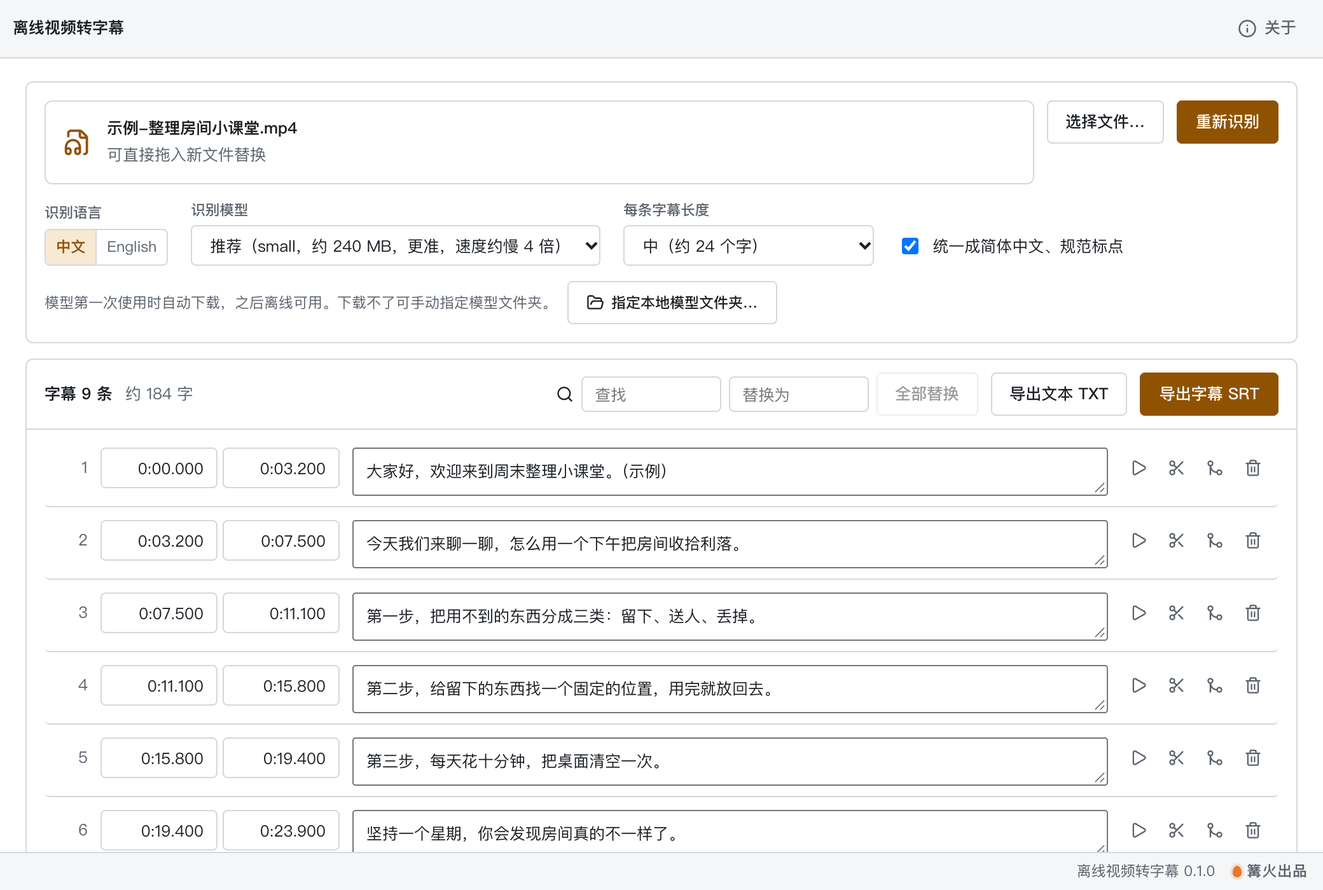
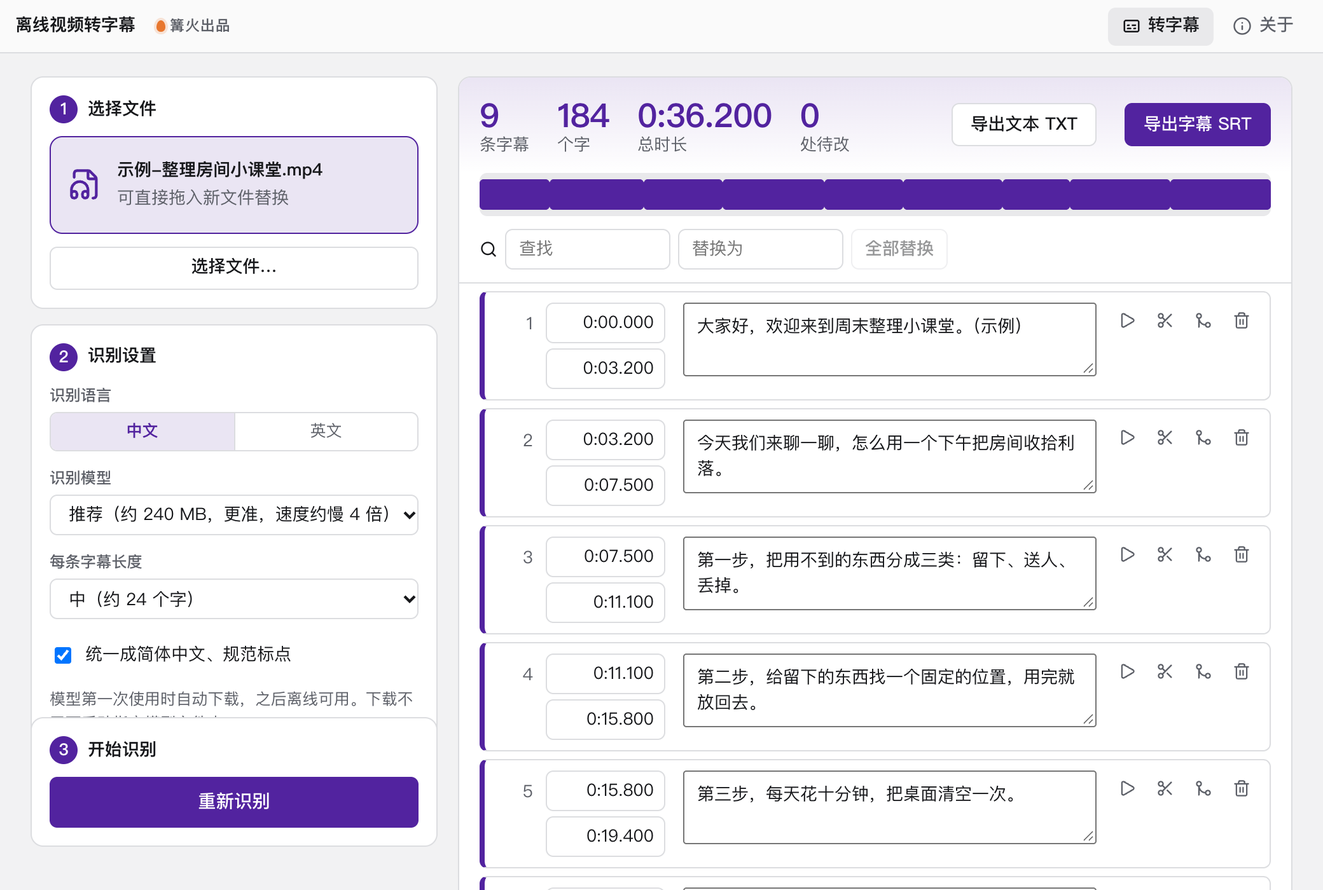
0.2.0：左设置右工作区，字幕时间轴，新空状态，全中文

Changed region(s): [[0.0, 0.0, 1.0, 1.0], [0.875, 0.3379, 0.9375, 0.3686]]

diff --git a/src/tool/Main.tsx b/src/tool/Main.tsx
@@ -16,6 +16,7 @@ const errText = (e: unknown) => (e instanceof Error ? e.message : String(e));
 const baseName = (p: string) => p.split(/[\\/]/).pop() ?? p;
 const stem = (p: string) => baseName(p).replace(/\.[^.]+$/, '');
 const isPreview = typeof location !== 'undefined' && location.pathname.endsWith('preview.html');
+const previewEmpty = isPreview && new URLSearchParams(location.search).get('state') === 'empty';
 
 interface Prefs { model: string; language: 'chinese' | 'english'; simplified: boolean; maxWidth: number; localDir: string }
 const DEFAULT_PREFS: Prefs = { model: 'small', language: 'chinese', simplified: true, maxWidth: 24, localDir: '' };
@@ -36,8 +37,8 @@ async function savePrefs(p: Prefs) {
 
 export function Main({ ctx }: { ctx?: Ctx }) {
   const [prefs, setPrefs] = useState<Prefs>(DEFAULT_PREFS);
-  const [file, setFile] = useState<string>(isPreview ? `/示例/${DEMO_NAME}` : '');
-  const [segs, setSegs] = useState<Segment[]>(isPreview ? DEMO_SEGMENTS : []);
+  const [file, setFile] = useState<string>(isPreview && !previewEmpty ? `/示例/${DEMO_NAME}` : '');
+  const [segs, setSegs] = useState<Segment[]>(isPreview && !previewEmpty ? DEMO_SEGMENTS : []);
   const [stage, setStage] = useState<Stage | null>(null);
   const [msg, setMsg] = useState<{ kind: 'ok' | 'err'; text: string } | null>(null);
   const [dirty, setDirty] = useState(false);
@@ -50,7 +51,7 @@ export function Main({ ctx }: { ctx?: Ctx }) {
 
   const choose = useCallback((p: string) => {
     if (busy) return;
-    if (!EXTS.includes((p.split('.').pop() ?? '').toLowerCase())) { setMsg({ kind: 'err', text: `不支持这种文件：${baseName(p)}。支持常见视频（mp4、mov、mkv 等）和音频（mp3、wav、m4a 等）` }); return; }
+    if (!EXTS.includes((p.split('.').pop() ?? '').toLowerCase())) { setMsg({ kind: 'err', text: `不支持这种文件：${baseName(p)}。支持常见视频（MP4、MOV 等）和音频（MP3、WAV、M4A 等）` }); return; }
     if (segs.length && dirty && !window.confirm('当前字幕有修改还没导出，换文件会丢掉。继续吗？')) return;
     setFile(p); setSegs([]); setDirty(false); setMsg(null);
   }, [busy, segs.length, dirty]);
@@ -95,48 +96,84 @@ export function Main({ ctx }: { ctx?: Ctx }) {
     }
   }
 
+  const hasText = segs.length > 0;
   return (
     <div className="os-root">
-      <section className="k-panel os-source">
-        <div className="os-file">
-          <span className={`os-drop${hover ? ' hover' : ''}${file ? ' has' : ''}`}>
-            <FileAudio size={22} aria-hidden />
+      <aside className="os-side" aria-label="识别设置">
+        <section className="os-step">
+          <h3><b>1</b>选择文件</h3>
+          <div className={`os-drop${hover ? ' hover' : ''}${file ? ' has' : ''}`}>
+            <FileAudio size={26} aria-hidden />
             <span className="os-file-text">
-              {file ? <><b className="k-ellipsis" title={file}>{baseName(file)}</b><span className="k-muted">可直接拖入新文件替换</span></> : <><b>把视频或音频拖到这里</b><span className="k-muted">mp4、mov、mkv、mp3、wav、m4a 等，文件不会上传</span></>}
+              {file ? <><b className="k-ellipsis" title={file}>{baseName(file)}</b><span className="k-muted">可直接拖入新文件替换</span></> : <><b>把视频或音频拖到这里</b><span className="k-muted">MP4、MOV、MP3、WAV、M4A 等，文件不会上传</span></>}
             </span>
-          </span>
+          </div>
           <button className="k-btn" disabled={busy} onClick={async () => { const p = (await pickFiles(EXTS, '视频或音频'))[0]; if (p) choose(p); }}>选择文件…</button>
-          {busy ? <button className="k-btn" onClick={() => abort.current?.abort()}>取消</button> : <button className="k-btn primary" disabled={!file || !ctx} onClick={start}>{segs.length ? '重新识别' : '开始识别'}</button>}
-        </div>
-        <div className="os-opts">
-          <div className="os-opt"><span className="k-label">识别语言</span>
-            <span className="k-seg" role="group" aria-label="识别语言">
-              {([['chinese', '中文'], ['english', 'English']] as const).map(([k, l]) => <button key={k} className={prefs.language === k ? 'on' : ''} aria-pressed={prefs.language === k} disabled={busy} onClick={() => setPref('language', k)}>{l}</button>)}
-            </span>
+        </section>
+        <section className="os-step">
+          <h3><b>2</b>识别设置</h3>
+          <div className="os-opts">
+            <div className="os-opt"><span className="k-label">识别语言</span>
+              <span className="k-seg" role="group" aria-label="识别语言">
+                {([['chinese', '中文'], ['english', '英文']] as const).map(([k, l]) => <button key={k} className={prefs.language === k ? 'on' : ''} aria-pressed={prefs.language === k} disabled={busy} onClick={() => setPref('language', k)}>{l}</button>)}
+              </span>
+            </div>
+            <div className="os-opt"><label className="k-label" htmlFor="os-model">识别模型</label>
+              <select id="os-model" className="k-input" value={prefs.model} disabled={busy} onChange={(e) => setPref('model', e.target.value)}>{MODELS.map((m) => <option key={m.id} value={m.id}>{m.label}</option>)}</select>
+            </div>
+            <div className="os-opt"><label className="k-label" htmlFor="os-width">每条字幕长度</label>
+              <select id="os-width" className="k-input" value={prefs.maxWidth} disabled={busy} onChange={(e) => setPref('maxWidth', Number(e.target.value))}>
+                <option value={16}>短（约 16 个字，适合竖屏）</option><option value={24}>中（约 24 个字）</option><option value={32}>长（约 32 个字）</option>
+              </select>
+            </div>
+            {prefs.language === 'chinese' && <label className="os-opt os-check"><input type="checkbox" checked={prefs.simplified} disabled={busy} onChange={(e) => setPref('simplified', e.target.checked)} /><span>统一成简体中文、规范标点</span></label>}
           </div>
-          <div className="os-opt"><label className="k-label" htmlFor="os-model">识别模型</label>
-            <select id="os-model" className="k-input" value={prefs.model} disabled={busy} onChange={(e) => setPref('model', e.target.value)}>{MODELS.map((m) => <option key={m.id} value={m.id}>{m.label}</option>)}</select>
+          <div className="os-model-row">
+            <span className="k-muted">{prefs.localDir ? <>使用本地模型文件夹：<span title={prefs.localDir}>{baseName(prefs.localDir)}</span></> : '模型第一次使用时自动下载，之后离线可用。下载不了可手动指定模型文件夹。'}</span>
+            <button className="k-btn os-sm" disabled={busy} onClick={async () => { const d = await pickFolder(); if (d) setPref('localDir', d); }}><FolderOpen size={14} aria-hidden />指定本地模型文件夹…</button>
+            {prefs.localDir && <button className="k-btn os-sm" disabled={busy} onClick={() => setPref('localDir', '')}>改回自动下载</button>}
           </div>
-          <div className="os-opt"><label className="k-label" htmlFor="os-width">每条字幕长度</label>
-            <select id="os-width" className="k-input" value={prefs.maxWidth} disabled={busy} onChange={(e) => setPref('maxWidth', Number(e.target.value))}>
-              <option value={16}>短（约 16 个字，适合竖屏）</option><option value={24}>中（约 24 个字）</option><option value={32}>长（约 32 个字）</option>
-            </select>
-          </div>
-          {prefs.language === 'chinese' && <label className="os-opt os-check"><input type="checkbox" checked={prefs.simplified} disabled={busy} onChange={(e) => setPref('simplified', e.target.checked)} /><span>统一成简体中文、规范标点</span></label>}
-        </div>
-        <div className="os-model-row">
-          <span className="k-muted">{prefs.localDir ? <>使用本地模型文件夹：<span title={prefs.localDir}>{baseName(prefs.localDir)}</span></> : '模型第一次使用时自动下载，之后离线可用。下载不了可手动指定模型文件夹。'}</span>
-          <button className="k-btn os-sm" disabled={busy} onClick={async () => { const d = await pickFolder(); if (d) setPref('localDir', d); }}><FolderOpen size={14} aria-hidden />指定本地模型文件夹…</button>
-          {prefs.localDir && <button className="k-btn os-sm" disabled={busy} onClick={() => setPref('localDir', '')}>改回自动下载</button>}
-        </div>
-        {stage && <div className="os-progress" role="status"><ProgressBar ratio={stage.ratio} label={stage.text} /><span className="k-muted">{stage.text}</span></div>}
-        {msg && <div className={`os-msg ${msg.kind}`} role={msg.kind === 'err' ? 'alert' : 'status'}>{msg.text}</div>}
-      </section>
+        </section>
+        <section className="os-step">
+          <h3><b>3</b>开始识别</h3>
+          {busy ? <button className="k-btn os-go" onClick={() => abort.current?.abort()}>取消</button> : <button className="k-btn primary os-go" disabled={!file || !ctx} onClick={start}>{hasText ? '重新识别' : '开始识别'}</button>}
+          {stage && <div className="os-progress" role="status"><ProgressBar ratio={stage.ratio} label={stage.text} /><span className="k-muted">{stage.text}</span></div>}
+          {msg && <div className={`os-msg ${msg.kind}`} role={msg.kind === 'err' ? 'alert' : 'status'}>{msg.text}</div>}
+        </section>
+      </aside>
 
-      {segs.length > 0 && (
-        <Editor segs={segs} issues={issues.length} bad={bad} file={file} audioRef={audio} edit={edit} patch={patch} play={play} onExport={exportAs} />
-      )}
-      {!segs.length && !busy && <div className="os-empty k-muted">选好文件，点「开始识别」。识别在本机完成，不联网（仅首次需要下载模型），不需要显卡。</div>}
+      <section className="os-stage">
+        {hasText ? (
+          <Editor segs={segs} issues={issues.length} bad={bad} file={file} audioRef={audio} edit={edit} patch={patch} play={play} onExport={exportAs} />
+        ) : <Intro busy={busy} />}
+      </section>
+    </div>
+  );
+}
+
+/** 还没有字幕时的示意：一段声音变成带时间的文字 */
+function Intro({ busy }: { busy: boolean }) {
+  const bars = [10, 22, 34, 18, 40, 28, 14, 36, 44, 24, 12, 30, 38, 16, 26, 42, 20, 32, 12, 24];
+  return (
+    <div className="os-intro">
+      <svg className="os-art" viewBox="0 0 560 170" role="img" aria-label="一段声音识别成带时间的字幕">
+        <g transform="translate(0 20)">
+          {bars.map((h, i) => <rect key={i} x={i * 11} y={65 - h} width="6" height={h * 2} rx="3" className="w-bar" />)}
+          <text x="108" y="132" textAnchor="middle" className="w-t">视频或音频</text>
+        </g>
+        <g className="w-arrow"><path d="M240 85h56" /><path d="M286 75l12 10-12 10" /></g>
+        {[['00:00.0', '大家好，欢迎来到小课堂'], ['00:03.2', '今天聊聊怎么整理房间'], ['00:07.5', '第一步，先分三类']].map(([t, x], i) => (
+          <g key={t} transform={`translate(330 ${14 + i * 48})`}>
+            <rect width="230" height="38" rx="8" className="w-row" />
+            <rect x="8" y="8" width="56" height="22" rx="5" className="w-time" />
+            <text x="36" y="24" textAnchor="middle" className="w-tt">{t}</text>
+            <text x="74" y="24" className="w-line">{x}</text>
+          </g>
+        ))}
+      </svg>
+      <h2>{busy ? '正在识别，请稍等' : '一段声音，变成一条条带时间的字幕'}</h2>
+      <p>在左边选好文件和语言，点「开始识别」。识别在本机完成，不联网（仅首次需要下载模型），不需要显卡。识别完可以逐条改文字和时间，再导出 SRT 或 TXT。</p>
+      <ul className="os-points"><li>文件不上传</li><li>逐条校对</li><li>查找替换</li><li>导出 SRT、TXT</li></ul>
     </div>
   );
 }
@@ -151,13 +188,26 @@ function Editor(props: {
   const [note, setNote] = useState('');
   const caret = useRef<Record<number, number>>({});
   const words = useMemo(() => segs.reduce((n, s) => n + s.text.replace(/\s/g, '').length, 0), [segs]);
+  const span = Math.max(1, ...segs.map((s) => s.end));
 
   return (
     <section className="k-panel os-editor">
-      <div className="os-bar">
-        <b>字幕 <span className="k-num">{segs.length}</span> 条</b>
-        <span className="k-muted k-num">约 {words} 字</span>
+      <div className="os-stats">
+        <div><b className="k-num">{segs.length}</b><span>条字幕</span></div>
+        <div><b className="k-num">{words}</b><span>个字</span></div>
+        <div><b className="k-num">{shortTime(span)}</b><span>总时长</span></div>
+        <div className={props.issues ? 'warn' : ''}><b className="k-num">{props.issues}</b><span>处待改</span></div>
         <span className="os-sp" />
+        <button className="k-btn" onClick={() => props.onExport('txt')}>导出文本 TXT</button>
+        <button className="k-btn primary" onClick={() => props.onExport('srt')}>导出字幕 SRT</button>
+      </div>
+      <div className="os-tl" role="group" aria-label="字幕时间轴，点一条跳到对应位置">
+        {segs.map((s, i) => (
+          <button key={i} className={`os-cue${bad.has(i) ? ' bad' : ''}`} style={{ left: `${(s.start / span) * 100}%`, width: `${Math.max(0.4, ((s.end - s.start) / span) * 100)}%` }}
+            title={`第 ${i + 1} 条 ${shortTime(s.start)}`} aria-label={`跳到第 ${i + 1} 条`} onClick={() => document.getElementById(`os-row-${i}`)?.scrollIntoView({ block: 'center', behavior: 'smooth' })} />
+        ))}
+      </div>
+      <div className="os-bar">
         <span className="os-find">
           <Search size={14} aria-hidden />
           <input className="k-input" aria-label="查找" placeholder="查找" value={find} onChange={(e) => { setFind(e.target.value); setNote(''); }} />
@@ -165,20 +215,18 @@ function Editor(props: {
           <button className="k-btn os-sm" disabled={!find} onClick={() => { const r = replaceAll(segs, find, to); if (r.count) edit(r.segs); setNote(r.count ? `已替换 ${r.count} 处` : '没有找到'); }}>全部替换</button>
           {note && <span className="k-muted" role="status">{note}</span>}
         </span>
-        <button className="k-btn" onClick={() => props.onExport('txt')}>导出文本 TXT</button>
-        <button className="k-btn primary" onClick={() => props.onExport('srt')}>导出字幕 SRT</button>
       </div>
       {props.issues > 0 && <div className="os-msg err" role="alert"><AlertTriangle size={14} aria-hidden /> 有 {props.issues} 处时间或文字问题（已在下面标红），导出前建议改一下。</div>}
       {!isPreview && <audio ref={props.audioRef} className="os-audio" controls preload="none" src={isPreview ? undefined : fileSrc(props.file)} aria-label="原声试听" />}
       <ol className="os-list">
         {segs.map((s, i) => (
-          <li key={i} className={`os-row${bad.has(i) ? ' bad' : ''}`}>
+          <li key={i} id={`os-row-${i}`} className={`os-row${bad.has(i) ? ' bad' : ''}`}>
             <span className="os-idx k-num">{i + 1}</span>
             <div className="os-times">
               <TimeInput label={`第 ${i + 1} 条开始时间`} value={s.start} onCommit={(v) => patch(i, { start: v })} />
               <TimeInput label={`第 ${i + 1} 条结束时间`} value={s.end} onCommit={(v) => patch(i, { end: v })} />
             </div>
-            <textarea className="k-textarea os-text" rows={Math.max(1, Math.ceil(s.text.length / 28))} aria-label={`第 ${i + 1} 条字幕文字`} value={s.text}
+            <textarea className="k-textarea os-text" rows={Math.max(1, Math.ceil(s.text.length / 17))} aria-label={`第 ${i + 1} 条字幕文字`} value={s.text}
               onChange={(e) => patch(i, { text: e.target.value })} onSelect={(e) => { caret.current[i] = e.currentTarget.selectionStart; }} />
             <div className="os-acts">
               <button className="k-icon-btn" title="从这里试听" aria-label={`试听第 ${i + 1} 条`} onClick={() => play(s.start)}><Play size={14} /></button>

diff --git a/src/tool/tool.css b/src/tool/tool.css
@@ -1,39 +1,66 @@
-/* 离线视频转字幕：只用 kit.css 的变量，类名统一以 os- 开头。 */
-.os-root { flex: 1; min-height: 0; display: flex; flex-direction: column; gap: 12px; }
-.os-source { padding: 14px; display: flex; flex-direction: column; gap: 12px; }
-.os-file { display: flex; gap: 10px; align-items: stretch; flex-wrap: wrap; }
-.os-drop { flex: 1 1 280px; min-width: 0; display: flex; align-items: center; gap: 12px; padding: 12px 14px; border: 1.5px dashed var(--line-strong); border-radius: var(--radius-lg); color: var(--muted); transition: border-color .15s var(--ease), background .15s var(--ease); }
-.os-drop.has { border-style: solid; border-color: var(--line); color: var(--primary); }
+/* 离线视频转字幕：左边三步设置，右边字幕工作区。只用 kit.css 的变量，类名统一以 os- 开头。 */
+.os-root { flex: 1; min-height: 0; display: grid; grid-template-columns: 320px minmax(0, 1fr); gap: 16px; align-items: start; }
+.os-side { display: flex; flex-direction: column; gap: 12px; position: sticky; top: 0; max-height: calc(100vh - 92px); overflow-y: auto; padding-bottom: 2px; }
+.os-step:last-child { position: sticky; bottom: 0; }
+.os-step { display: flex; flex-direction: column; gap: 10px; padding: 14px; background: var(--surface); border: 1px solid var(--line); border-radius: var(--radius-lg); }
+.os-step h3 { margin: 0; display: flex; align-items: center; gap: 8px; font-size: 1em; }
+.os-step h3 b { width: 22px; height: 22px; border-radius: 50%; display: grid; place-items: center; background: var(--primary); color: var(--on-primary); font-size: 13px; }
+.os-drop { display: flex; align-items: center; gap: 12px; padding: 16px 14px; border: 1.5px dashed var(--line-strong); border-radius: var(--radius-lg); color: var(--muted); min-width: 0; transition: border-color .2s var(--ease), background .2s var(--ease); }
+.os-drop.has { border-style: solid; border-color: var(--primary); background: var(--primary-soft); color: var(--primary); }
 .os-drop.hover { border-color: var(--primary); background: var(--primary-soft); }
 .os-file-text { display: flex; flex-direction: column; gap: 2px; min-width: 0; color: var(--ink); }
 .os-file-text b { font-weight: 600; }
-.os-opts { display: flex; flex-wrap: wrap; gap: 12px 18px; align-items: flex-end; }
+.os-opts { display: flex; flex-direction: column; gap: 12px; }
 .os-opt { display: flex; flex-direction: column; gap: 4px; min-width: 0; }
-.os-opt select.k-input { min-width: 190px; }
-.os-check { flex-direction: row; align-items: center; gap: 8px; padding-bottom: 6px; cursor: pointer; }
+.os-opt select.k-input { width: 100%; }
+.os-check { flex-direction: row; align-items: center; gap: 8px; min-height: 32px; cursor: pointer; }
 .os-model-row { display: flex; align-items: center; gap: 8px; flex-wrap: wrap; font-size: .92em; }
-.os-sm { height: 28px; padding: 0 10px; display: inline-flex; align-items: center; gap: 4px; }
-.os-go { display: flex; align-items: center; gap: 12px; flex-wrap: wrap; }
-.os-progress {  display: flex; flex-direction: column; gap: 4px; min-width: 0; }
+.os-sm { height: 32px; padding: 0 10px; display: inline-flex; align-items: center; gap: 4px; }
+.os-go { width: 100%; height: 40px; justify-content: center; font-size: 1.05em; }
+.os-progress { display: flex; flex-direction: column; gap: 4px; min-width: 0; }
 .os-msg { padding: 8px 12px; border-radius: var(--radius); font-size: .95em; display: flex; align-items: center; gap: 6px; }
 .os-msg.ok { background: var(--ok-soft); color: var(--ok); }
 .os-msg.err { background: var(--err-soft); color: var(--err); }
-.os-empty { padding: 28px 12px; text-align: center; }
 
-.os-editor { flex: 1; min-height: 0; display: flex; flex-direction: column; overflow: hidden; }
-.os-bar { display: flex; align-items: center; gap: 10px; flex-wrap: wrap; padding: 10px 14px; border-bottom: 1px solid var(--line); }
+.os-stage { min-width: 0; min-height: 0; display: flex; flex-direction: column; }
+.os-intro { display: grid; justify-items: center; gap: 10px; padding: 40px 24px; text-align: center; background: var(--surface); border: 1px solid var(--line); border-radius: var(--radius-lg); }
+.os-intro h2 { margin: 6px 0 0; font-size: 21px; font-weight: 700; }
+.os-intro p { margin: 0; max-width: 460px; color: var(--muted); line-height: 1.7; font-size: 14px; }
+.os-art { width: min(100%, 560px); height: auto; }
+.os-art .w-bar { fill: var(--primary); opacity: .75; }
+.os-art .w-arrow path { fill: none; stroke: var(--muted); stroke-width: 3; stroke-linecap: round; stroke-linejoin: round; }
+.os-art .w-row { fill: var(--chip); }
+.os-art .w-time { fill: var(--primary); }
+.os-art .w-tt { fill: var(--bg); font-size: 12px; font-family: var(--font); }
+.os-art .w-line { fill: var(--ink); font-size: 13px; font-family: var(--font); }
+.os-art .w-t { fill: var(--muted); font-size: 13px; font-family: var(--font); }
+.os-points { display: flex; flex-wrap: wrap; justify-content: center; gap: 8px; margin: 4px 0 0; padding: 0; list-style: none; }
+.os-points li { min-height: 32px; display: flex; align-items: center; padding: 0 14px; border-radius: var(--radius-pill); background: var(--primary-soft); color: var(--ink); font-size: 13px; }
+
+.os-editor { flex: 1; min-height: 0; display: flex; flex-direction: column; overflow: hidden; background: var(--surface); border: 1px solid var(--line); border-radius: var(--radius-lg); }
+.os-stats { display: flex; align-items: center; gap: 22px; flex-wrap: wrap; padding: 14px 16px; background: linear-gradient(180deg, var(--primary-soft), transparent); }
+.os-stats > div { display: flex; flex-direction: column; line-height: 1.2; }
+.os-stats b { font-size: 26px; font-weight: 700; color: var(--primary); letter-spacing: -.01em; }
+.os-stats span { font-size: 13px; color: var(--muted); }
+.os-stats .warn b { color: var(--err); }
+.os-tl { position: relative; height: 34px; margin: 0 16px; border-radius: var(--radius); background: var(--chip); overflow: hidden; }
+.os-cue { position: absolute; top: 5px; bottom: 5px; min-width: 3px; padding: 0; border: 0; border-radius: 3px; background: var(--primary); cursor: pointer; box-shadow: 1px 0 0 var(--chip); transition: opacity .15s var(--ease); }
+.os-cue:hover { opacity: .65; }
+.os-cue.bad { background: var(--err); }
+.os-bar { display: flex; align-items: center; gap: 10px; flex-wrap: wrap; padding: 10px 16px; border-bottom: 1px solid var(--line); }
 .os-find { display: inline-flex; align-items: center; gap: 6px; flex-wrap: wrap; }
-.os-find .k-input { width: 110px; height: 28px; }
-.os-audio { width: calc(100% - 28px); margin: 8px 14px 0; height: 34px; }
-.os-list { list-style: none; margin: 0; padding: 6px 14px 14px; display: flex; flex-direction: column; gap: 2px; overflow-y: auto; min-height: 0; }
-.os-row { display: grid; grid-template-columns: 28px 188px minmax(0, 1fr) auto; gap: 10px; align-items: start; padding: 8px 6px; border-bottom: 1px solid var(--line); border-radius: var(--radius); }
+.os-find .k-input { width: 130px; height: 32px; }
+.os-audio { width: calc(100% - 32px); margin: 8px 16px 0; height: 34px; }
+.os-list { list-style: none; margin: 0; padding: 6px 16px 16px; display: flex; flex-direction: column; gap: 6px; overflow-y: auto; min-height: 0; }
+.os-row { display: grid; grid-template-columns: 30px 98px minmax(0, 1fr) auto; gap: 10px; align-items: start; padding: 8px 8px; border: 1px solid var(--line); border-left: 4px solid var(--primary); border-radius: var(--radius); }
 .os-row:hover { background: var(--chip); }
-.os-row.bad { background: var(--err-soft); }
+.os-row.bad { background: var(--err-soft); border-left-color: var(--err); }
 .os-idx { color: var(--muted); padding-top: 7px; text-align: right; }
-.os-times { display: flex; gap: 4px; }
-.os-time { height: 28px; width: 92px; padding: 0 8px; text-align: right; }
+.os-times { display: flex; flex-direction: column; gap: 4px; }
+.os-time { height: 32px; width: 94px; padding: 0 8px; text-align: right; }
 .os-time.invalid { border-color: var(--err); }
-.os-text { resize: vertical; min-height: 28px; line-height: 1.5; width: 100%; }
-.os-acts { display: flex; gap: 2px; padding-top: 2px; }
-@media (max-width: 720px) { .os-row { grid-template-columns: 24px minmax(0, 1fr); } .os-acts { grid-column: 2; } }
+.os-text { resize: vertical; min-height: 32px; line-height: 1.5; width: 100%; }
+.os-acts { display: flex; gap: 2px; }
 .os-sp { flex: 1; }
+@media (max-width: 860px) { .os-root { grid-template-columns: minmax(0, 1fr); } .os-side { position: static; } }
+@media (max-width: 720px) { .os-row { grid-template-columns: 24px minmax(0, 1fr); } .os-acts { grid-column: 2; } }

diff --git a/src/tool/asr/models.ts b/src/tool/asr/models.ts
@@ -30,7 +30,7 @@ const COMMON = (sha: { config: string; gen: string }, sizes: { config: number; g
 
 export const MODELS: ModelSpec[] = [
   {
-    id: 'base', label: '快速（base，约 76 MB，错字和漏句较多）', repo: 'Xenova/whisper-base', commit: '64da57285918e20ea79ea5c88eed7197933abaa8',
+    id: 'base', label: '快速（约 76 MB，错字和漏句较多）', repo: 'Xenova/whisper-base', commit: '64da57285918e20ea79ea5c88eed7197933abaa8',
     files: [
[2 lines of base64/hex data omitted]
@@ -38,7 +38,7 @@ export const MODELS: ModelSpec[] = [
     ],
   },
   {
-    id: 'small', label: '推荐（small，约 240 MB，更准，速度约慢 4 倍）', repo: 'Xenova/whisper-small', commit: '2d67713f236afa48a18992566e7647f6ca848e13',
+    id: 'small', label: '推荐（约 240 MB，更准，速度约慢 4 倍）', repo: 'Xenova/whisper-small', commit: '2d67713f236afa48a18992566e7647f6ca848e13',
     files: [
[2 lines of base64/hex data omitted]

diff --git a/src/tool/asr/audio.ts b/src/tool/asr/audio.ts
@@ -27,7 +27,7 @@ export function parseWav(bytes: Uint8Array): { samples: Float32Array; sampleRate
       sampleRate = dv.getUint32(body + 4, true);
       bits = dv.getUint16(body + 14, true);
     } else if (id === 'data') {
-      if (sampleRate !== SAMPLE_RATE || channels !== 1 || bits !== 16) throw new Error(`音频格式不对（${sampleRate}Hz、${channels} 声道、${bits} 位），应为 16000Hz 单声道 16 位`);
+      if (sampleRate !== SAMPLE_RATE || channels !== 1 || bits !== 16) throw new Error(`音频格式不对（${sampleRate} 赫兹、${channels} 声道、${bits} 位），应为 16000 赫兹单声道 16 位`);
       if (size === 0 || body + size > bytes.length) size = bytes.length - body;
       const n = Math.floor(size / 2);
       const samples = new Float32Array(n);

diff --git a/src/tool/asr/asr.test.ts b/src/tool/asr/asr.test.ts
@@ -80,7 +80,7 @@ describe('音频', () => {
     expect(parseWav(wavBytes(Int16Array.from([1, 2, 3]), { dataSize: 0 })).samples).toHaveLength(3);
   });
   it('格式不对 / 不是 WAV 时给出明确错误', () => {
-    expect(() => parseWav(wavBytes(new Int16Array(4), { rate: 44100 }))).toThrow('16000Hz');
+    expect(() => parseWav(wavBytes(new Int16Array(4), { rate: 44100 }))).toThrow('16000 赫兹');
     expect(() => parseWav(wavBytes(new Int16Array(4), { ch: 2 }))).toThrow('单声道');
     expect(() => parseWav(new Uint8Array(100))).toThrow('不是有效的 WAV');
   });

diff --git a/CHANGELOG.md b/CHANGELOG.md
@@ -1,5 +1,12 @@
 # 更新记录
 
+## 0.2.0
+
+- 重做主界面：左边「选文件、识别设置、开始识别」三步，右边是字幕工作区，主色改为深紫。
+- 字幕工作区顶部加大字统计（条数、字数、总时长、待改处数）和时间轴，点一条字幕跳到对应行，有问题的标红。
+- 还没有字幕时显示示意图：一段声音变成带时间的字幕。
+- 界面只留中文：语言「英文」、模型名、音频格式报错、文件格式提示都改成中文。
+
 ## 0.1.0
 
 - 首个版本。
